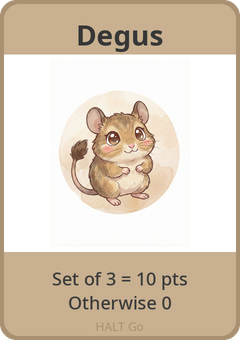
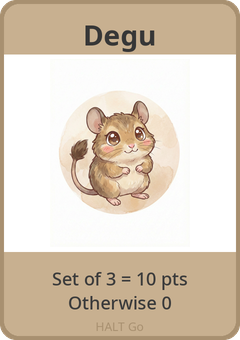
Rename Degus (plural) to Degu (singular) throughout codebase
- Updated display name in constants, embeds, card pipeline, generate script
- Updated custom emoji name from halt_degus to halt_degu
- Updated all documentation: README, GAME_DESIGN, ARCHITECTURE
- Updated settings dashboard HTML (gameplay page, tips)
- Updated test comments and display strings
- Regenerated Discord card image with 'Degu' title
- Internal keys (CARD_TYPES.DEGUS, breakdown.degus) unchanged to avoid breaking changes
- All 39 tests passing

Changed region(s): [[0.3208, 0.0588, 0.6708, 0.1765]]

diff --git a/test/test-scoring-edge-cases.js b/test/test-scoring-edge-cases.js
@@ -124,35 +124,35 @@ console.log('\n=== Hay Multiplier ===');
   assert(r.breakdown.hay.used === 1, 'Only 1 hay used');
 }
 
-console.log('\n=== Degus Set Bonus ===');
+console.log('\n=== Degu Set Bonus ===');
 {
   const p = makePlayer('1', 'Test', []);
   const all = [p];
 
-  // 0 degus = 0
+  // 0 degu = 0
   p.roundCards = [];
   let r = Scoring.calculateRoundScore(p, all);
-  assert(r.breakdown.degus.points === 0, '0 degus = 0 pts');
+  assert(r.breakdown.degus.points === 0, '0 degu = 0 pts');
 
-  // 2 degus = 0 (incomplete set)
+  // 2 degu = 0 (incomplete set)
   p.roundCards = [CARD_TYPES.DEGUS, CARD_TYPES.DEGUS];
   r = Scoring.calculateRoundScore(p, all);
-  assert(r.breakdown.degus.points === 0, '2 degus = 0 pts');
+  assert(r.breakdown.degus.points === 0, '2 degu = 0 pts');
 
-  // 3 degus = 10
+  // 3 degu = 10
   p.roundCards = [CARD_TYPES.DEGUS, CARD_TYPES.DEGUS, CARD_TYPES.DEGUS];
   r = Scoring.calculateRoundScore(p, all);
-  assert(r.breakdown.degus.points === 10, '3 degus = 10 pts');
+  assert(r.breakdown.degus.points === 10, '3 degu = 10 pts');
 
-  // 6 degus = 20 (2 sets)
+  // 6 degu = 20 (2 sets)
   p.roundCards = Array(6).fill(CARD_TYPES.DEGUS);
   r = Scoring.calculateRoundScore(p, all);
-  assert(r.breakdown.degus.points === 20, '6 degus = 20 pts (2 sets)');
+  assert(r.breakdown.degus.points === 20, '6 degu = 20 pts (2 sets)');
 
-  // 7 degus = 20 (2 sets, 1 leftover)
+  // 7 degu = 20 (2 sets, 1 leftover)
   p.roundCards = Array(7).fill(CARD_TYPES.DEGUS);
   r = Scoring.calculateRoundScore(p, all);
-  assert(r.breakdown.degus.points === 20, '7 degus = 20 pts (2 sets + 1 leftover)');
+  assert(r.breakdown.degus.points === 20, '7 degu = 20 pts (2 sets + 1 leftover)');
 }
 
 console.log('\n=== Sanctuary Cat End-Game ===');
@@ -222,7 +222,7 @@ console.log('\n=== Flat Value Cards ===');
 
 console.log('\n=== Combined Scoring ===');
 {
-  // Complex hand: 2 rats, 1 hay, 2 guinea pigs, 1 degus, 1 sanctuary cat
+  // Complex hand: 2 rats, 1 hay, 2 guinea pigs, 1 degu, 1 sanctuary cat
   const p = makePlayer('1', 'Test', [
     CARD_TYPES.RAT, CARD_TYPES.RAT,
     CARD_TYPES.HAY,
@@ -235,7 +235,7 @@ console.log('\n=== Combined Scoring ===');
   const r = Scoring.calculateRoundScore(p, all);
   // Rats: 2 = 3 pts
   // Hay: 1, applied to first guinea pig = 9, second = 3 → total guinea pig = 12
-  // Degus: 1 = 0
+  // Degu: 1 = 0
   // Sanctuary cat: 0 (end game only)
   const expected = 3 + 12 + 0 + 0;
   assert(r.total === expected, `Combined score = ${expected} (got ${r.total})`);

diff --git a/src/settings/public/index.html b/src/settings/public/index.html
@@ -760,7 +760,7 @@
               </tr>
               <tr>
                 <td class="emoji-cell">&#x1f43f;&#xfe0f;</td>
-                <td><strong>Degus</strong></td>
+                <td><strong>Degu</strong></td>
                 <td>Set of 3 = 10 pts, otherwise 0</td>
                 <td>All-or-nothing — commit to collecting 3 or skip entirely</td>
               </tr>
@@ -781,7 +781,7 @@
             <li><strong>Hay multipliers</strong> are applied to the next eligible card in your collection</li>
             <li><strong>Rat sets</strong> are scored based on how many you collected</li>
             <li><strong>Gerbil majority</strong> is compared across all players</li>
-            <li><strong>Degus sets</strong> are checked (need exactly 3 for points)</li>
+            <li><strong>Degu sets</strong> are checked (need exactly 3 for points)</li>
           </ul>
 
           <h4>After the Final Round</h4>
@@ -812,7 +812,7 @@
             <ul>
               <li><strong>Watch the Gerbils</strong> — If no one else is collecting them, the majority bonus is easy points.</li>
               <li><strong>Hay + Guinea Pig = 9 points</strong> — The best Hay combo. Prioritize it when you see both.</li>
-              <li><strong>Commit to Degus or skip them</strong> — Having 1 or 2 Degus is worth nothing. Only go for them if you can get 3.</li>
+              <li><strong>Commit to Degu or skip them</strong> — Having 1 or 2 Degu is worth nothing. Only go for them if you can get 3.</li>
               <li><strong>Don't ignore Sanctuary Cats</strong> — Having the fewest costs you 6 points. Pick at least a couple across the game.</li>
               <li><strong>Pregnant Hamster is a gamble</strong> — You trade 1 known card for 2 random ones. Great early in a round, risky late.</li>
               <li><strong>Rats cap at 5</strong> — Collecting more than 5 rats doesn't give extra points (still 15).</li>

diff --git a/src/ui/embeds.js b/src/ui/embeds.js
@@ -204,7 +204,7 @@ function createRoundScoreEmbed(round, results, getEmoji) {
     if (b.guinea_pig.points > 0) parts.push(`${re(CARD_TYPES.GUINEA_PIG)} Guinea Pigs: +${b.guinea_pig.points}${b.guinea_pig.multiplied > 0 ? ' (hay!)' : ''}`);
     if (b.rabbit.points > 0) parts.push(`${re(CARD_TYPES.RABBIT)} Rabbits: +${b.rabbit.points}${b.rabbit.multiplied > 0 ? ' (hay!)' : ''}`);
     if (b.chinchilla.points > 0) parts.push(`${re(CARD_TYPES.CHINCHILLA)} Chinchillas: +${b.chinchilla.points}${b.chinchilla.multiplied > 0 ? ' (hay!)' : ''}`);
-    if (b.degus.points > 0) parts.push(`${re(CARD_TYPES.DEGUS)} Degus: +${b.degus.points}`);
+    if (b.degus.points > 0) parts.push(`${re(CARD_TYPES.DEGUS)} Degu: +${b.degus.points}`);
     if (b.gerbils.points > 0) parts.push(`${re(CARD_TYPES.GERBIL)} Gerbils: +${b.gerbils.points}`);
     return `**${r.username}**: ${parts.join(', ') || 'No scoring cards'}`;
   }).join('\n');
@@ -330,8 +330,8 @@ function createHelpEmbed(getEmoji) {
         inline: true,
       },
       {
-        name: `${re(CARD_TYPES.DEGUS)} Degus — Set Bonus`,
-        value: '3 Degus = 10 pts, else 0',
+        name: `${re(CARD_TYPES.DEGUS)} Degu — Set Bonus`,
+        value: '3 Degu = 10 pts, else 0',
         inline: true,
       },
       {

diff --git a/test/test-engine.js b/test/test-engine.js
@@ -32,7 +32,7 @@ const p1 = new Player('user1', 'Alice');
 const p2 = new Player('user2', 'Bob');
 const p3 = new Player('user3', 'Charlie');
 
-// Give Alice: 3 rats, 2 guinea pigs, 1 hay, 1 degus
+// Give Alice: 3 rats, 2 guinea pigs, 1 hay, 1 degu
 p1.roundCards = [
   CARD_TYPES.RAT, CARD_TYPES.RAT, CARD_TYPES.RAT,
   CARD_TYPES.GUINEA_PIG, CARD_TYPES.GUINEA_PIG,
@@ -40,7 +40,7 @@ p1.roundCards = [
   CARD_TYPES.DEGUS,
 ];
 
-// Give Bob: 2 gerbils, 3 degus, 1 rabbit, 1 sanctuary_cat
+// Give Bob: 2 gerbils, 3 degu, 1 rabbit, 1 sanctuary_cat
 p2.roundCards = [
   CARD_TYPES.GERBIL, CARD_TYPES.GERBIL,
   CARD_TYPES.DEGUS, CARD_TYPES.DEGUS, CARD_TYPES.DEGUS,
@@ -69,9 +69,9 @@ for (const player of allPlayers) {
 }
 
 // Expected:
-// Alice: 3 rats = 6, 2 guinea pigs (1 with hay x3 = 9, 1 normal = 3) = 12, 1 degus = 0
+// Alice: 3 rats = 6, 2 guinea pigs (1 with hay x3 = 9, 1 normal = 3) = 12, 1 degu = 0
 //   → Gerbils: 0 (has none) → Total: 18
-// Bob: 2 gerbils = 6 (most), 3 degus = 10, 1 rabbit = 2
+// Bob: 2 gerbils = 6 (most), 3 degu = 10, 1 rabbit = 2
 //   → Total: 18
 // Charlie: 1 gerbil = 3 (second), 2 chinchillas (2 with hay x3 = 6) = 6, 1 rabbit = 2
 //   → Total: 11

diff --git a/src/settings/cardPipeline.js b/src/settings/cardPipeline.js
@@ -46,7 +46,7 @@ const CARD_DEFS = {
   guinea_pig: { name: 'Guinea Pig', scoring: ['3 points each'], color: '#D4A574', border: '#B08050' },
   rabbit: { name: 'Rabbit', scoring: ['2 points each'], color: '#D4B8E8', border: '#A888C8' },
   chinchilla: { name: 'Chinchilla', scoring: ['1 point each'], color: '#C8B8D8', border: '#9888B8' },
-  degus: { name: 'Degus', scoring: ['Set of 3 = 10 pts', 'Otherwise 0'], color: '#C8B090', border: '#A89070' },
+  degus: { name: 'Degu', scoring: ['Set of 3 = 10 pts', 'Otherwise 0'], color: '#C8B090', border: '#A89070' },
   sanctuary_cat: { name: 'Sanctuary Cat', scoring: ['End: Most +6', 'Least -6'], color: '#F0D8A0', border: '#D0B870' },
 };
 

diff --git a/src/game/Scoring.js b/src/game/Scoring.js
@@ -62,7 +62,7 @@ class Scoring {
       points: 0, // Hay itself doesn't score, it multiplies
     };
 
-    // --- Degus: Set of 3 = 10 points ---
+    // --- Degu: Set of 3 = 10 points ---
     const degusCount = counts[CARD_TYPES.DEGUS] || 0;
     const degusSets = Math.floor(degusCount / 3);
     const degusScore = degusSets * 10;

diff --git a/src/utils/constants.js b/src/utils/constants.js
@@ -70,9 +70,9 @@ const CARD_INFO = {
     image: 'chinchilla.png',
   },
   [CARD_TYPES.DEGUS]: {
-    name: 'Degus',
+    name: 'Degu',
     emoji: '🐿',
-    customEmojiName: 'halt_degus',
+    customEmojiName: 'halt_degu',
     description: 'Set of 3 = 10 points, otherwise 0',
     color: '#C8B090',
     image: 'degus.png',

diff --git a/scripts/generate-cards.py b/scripts/generate-cards.py
@@ -91,7 +91,7 @@ CARDS = [
     },
     {
         'id': 'degus',
-        'name': 'Degus',
+        'name': 'Degu',
         'scoring': 'Set of 3 = 10 pts\nOtherwise 0',
         'color': '#C8B090',
         'border': '#A89070',

diff --git a/GAME_DESIGN.md b/GAME_DESIGN.md
@@ -27,12 +27,12 @@ Built for [Helping All Little Things (HALT)](https://helpingalllittlethings.org)
 | Guinea Pig | 🐹 | Flat: 3 points each (9 with Hay) |
 | Rabbit | 🐰 | Flat: 2 points each (6 with Hay) |
 | Chinchilla | 🐭 | Flat: 1 point each (3 with Hay) |
-| Degus | 🐿 | Set bonus: 3 Degus = 10 points, otherwise 0 |
+| Degu | 🐿 | Set bonus: 3 Degu = 10 points, otherwise 0 |
 | Sanctuary Cat | 🐱 | End-game (after all 3 rounds): Most=+6, Least=-6, tied=split |
 
 ## Scoring Flow
 
-1. **After each round (Phases 1-7 complete)**: Count cards, apply flat points, apply Hay multipliers, score Rat sets, determine Gerbil majority, check Degus sets, update running total, clear round cards.
+1. **After each round (Phases 1-7 complete)**: Count cards, apply flat points, apply Hay multipliers, score Rat sets, determine Gerbil majority, check Degu sets, update running total, clear round cards.
 2. **After Round 3**: Apply Sanctuary Cat end-game bonus/penalty across all 3 rounds combined, then determine the winner.
 
 ## Card Generation
@@ -49,7 +49,7 @@ Built for [Helping All Little Things (HALT)](https://helpingalllittlethings.org)
 | Guinea Pig | 12 | 12% |
 | Rabbit | 14 | 14% |
 | Chinchilla | 14 | 14% |
-| Degus | 10 | 10% |
+| Degu | 10 | 10% |
 | Sanctuary Cat | 8 | 8% |
 
 ## Discord Integration

diff --git a/README.md b/README.md
@@ -21,7 +21,7 @@ At the end of the game, every player receives a personalized **collectible galle
 | Guinea Pig | 3 points each (9 with Hay) | Reliable points, excellent Hay target |
 | Rabbit | 2 points each (6 with Hay) | Solid mid-tier value |
 | Chinchilla | 1 point each (3 with Hay) | Common, low value alone |
-| Degus | Set of 3 = 10 points, otherwise 0 | All-or-nothing: commit to 3 or skip |
+| Degu | Set of 3 = 10 points, otherwise 0 | All-or-nothing: commit to 3 or skip |
 | Sanctuary Cat | End-game: Most=+6, Least=-6 | Scored after all 3 rounds combined |
 
 ## Phase Structure
@@ -177,7 +177,7 @@ HALT Go includes a set of custom kawaii emoji images in `assets/emojis/` that yo
 | `guinea_pig.png` | `halt_guineapig` | Guinea Pig |
 | `rabbit.png` | `halt_rabbit` | Rabbit |
 | `chinchilla.png` | `halt_chinchilla` | Chinchilla |
-| `degus.png` | `halt_degus` | Degus |
+| `degus.png` | `halt_degu` | Degu |
 | `sanctuary_cat.png` | `halt_cat` | Sanctuary Cat |
 
 The names must match exactly (they are case-sensitive). After uploading, restart the bot and it will log how many custom emojis it found. If an emoji is missing or misnamed, the bot falls back to the default Unicode emoji for that card.

diff --git a/ARCHITECTURE.md b/ARCHITECTURE.md
@@ -23,7 +23,7 @@ halt-discord-game/
 │   │   ├── Game.js               # Single game instance (lobby, rounds, phases, computer player)
 │   │   ├── Player.js             # Player state (cards, scores, allCards tracking)
 │   │   ├── CardGenerator.js      # Weighted random card generation
-│   │   └── Scoring.js            # All scoring logic (rats, gerbils, hay, degus, cats)
+│   │   └── Scoring.js            # All scoring logic (rats, gerbils, hay, degu, cats)
 │   ├── ui/
 │   │   ├── embeds.js             # Discord embed builders (10 embed types)
 │   │   ├── buttons.js            # Button component builders (lobby, selection, computer toggle)
